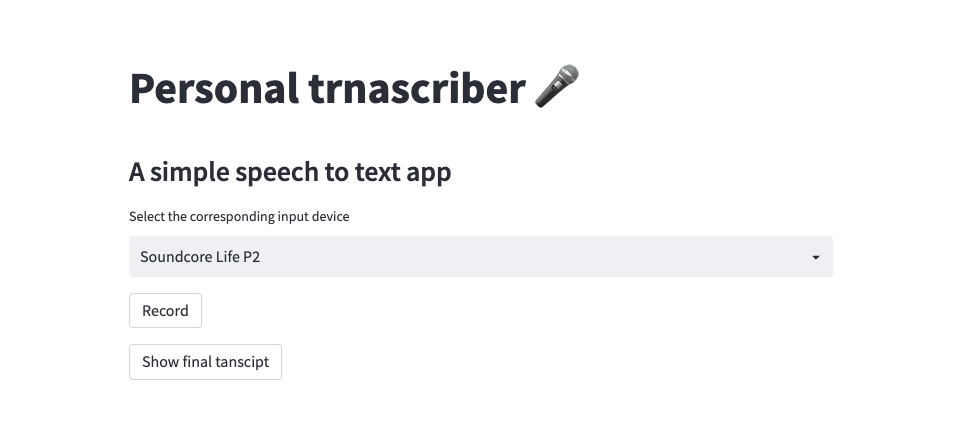
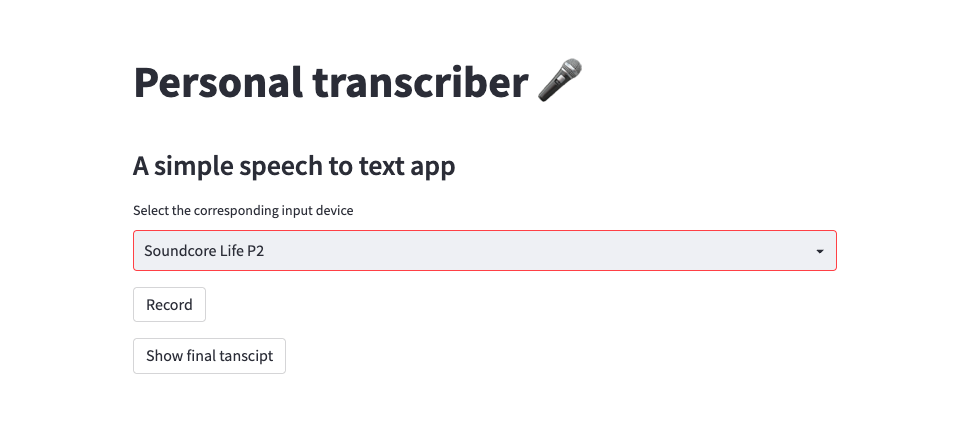
Some minor changes

diff --git a/app.py b/app.py
@@ -15,7 +15,7 @@ messages = queue.Queue()
 recordings = queue.Queue()
 output = queue.Queue()
 
-st.title("Personal trnascriber 🎤")
+st.title("Personal transcriber 🎤")
 
 st.write("""
 ### A simple speech to text app
